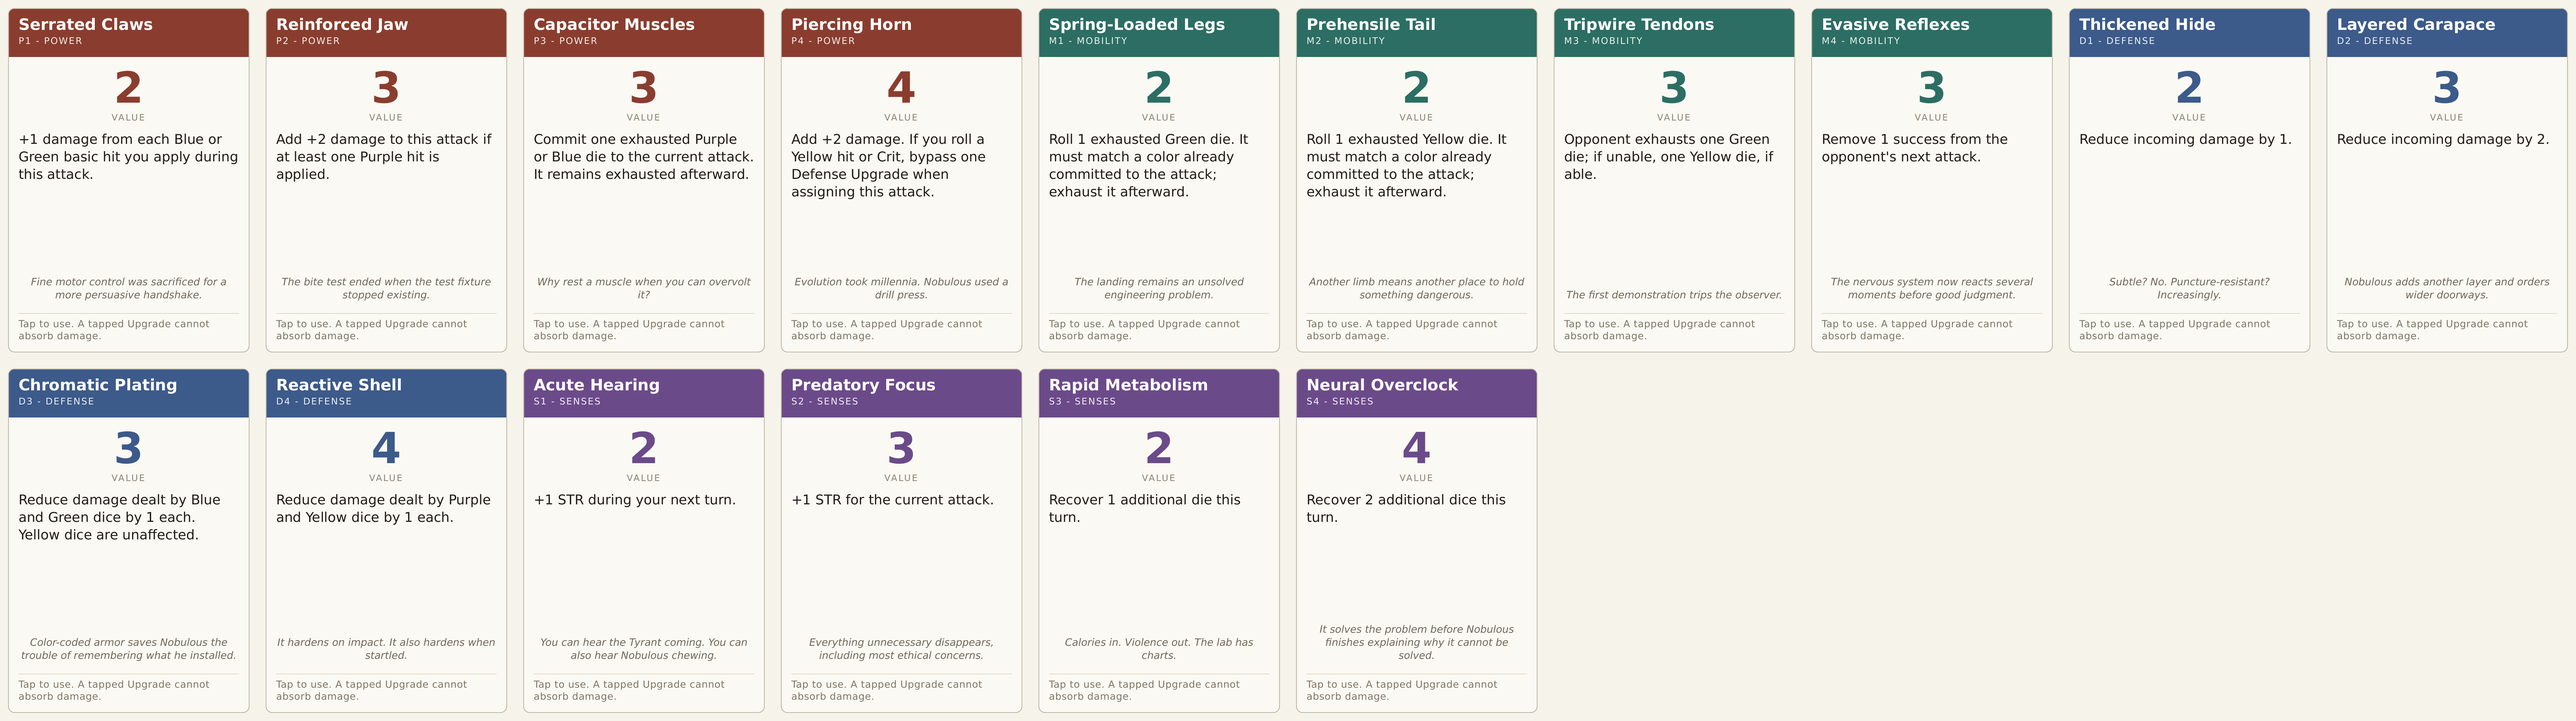
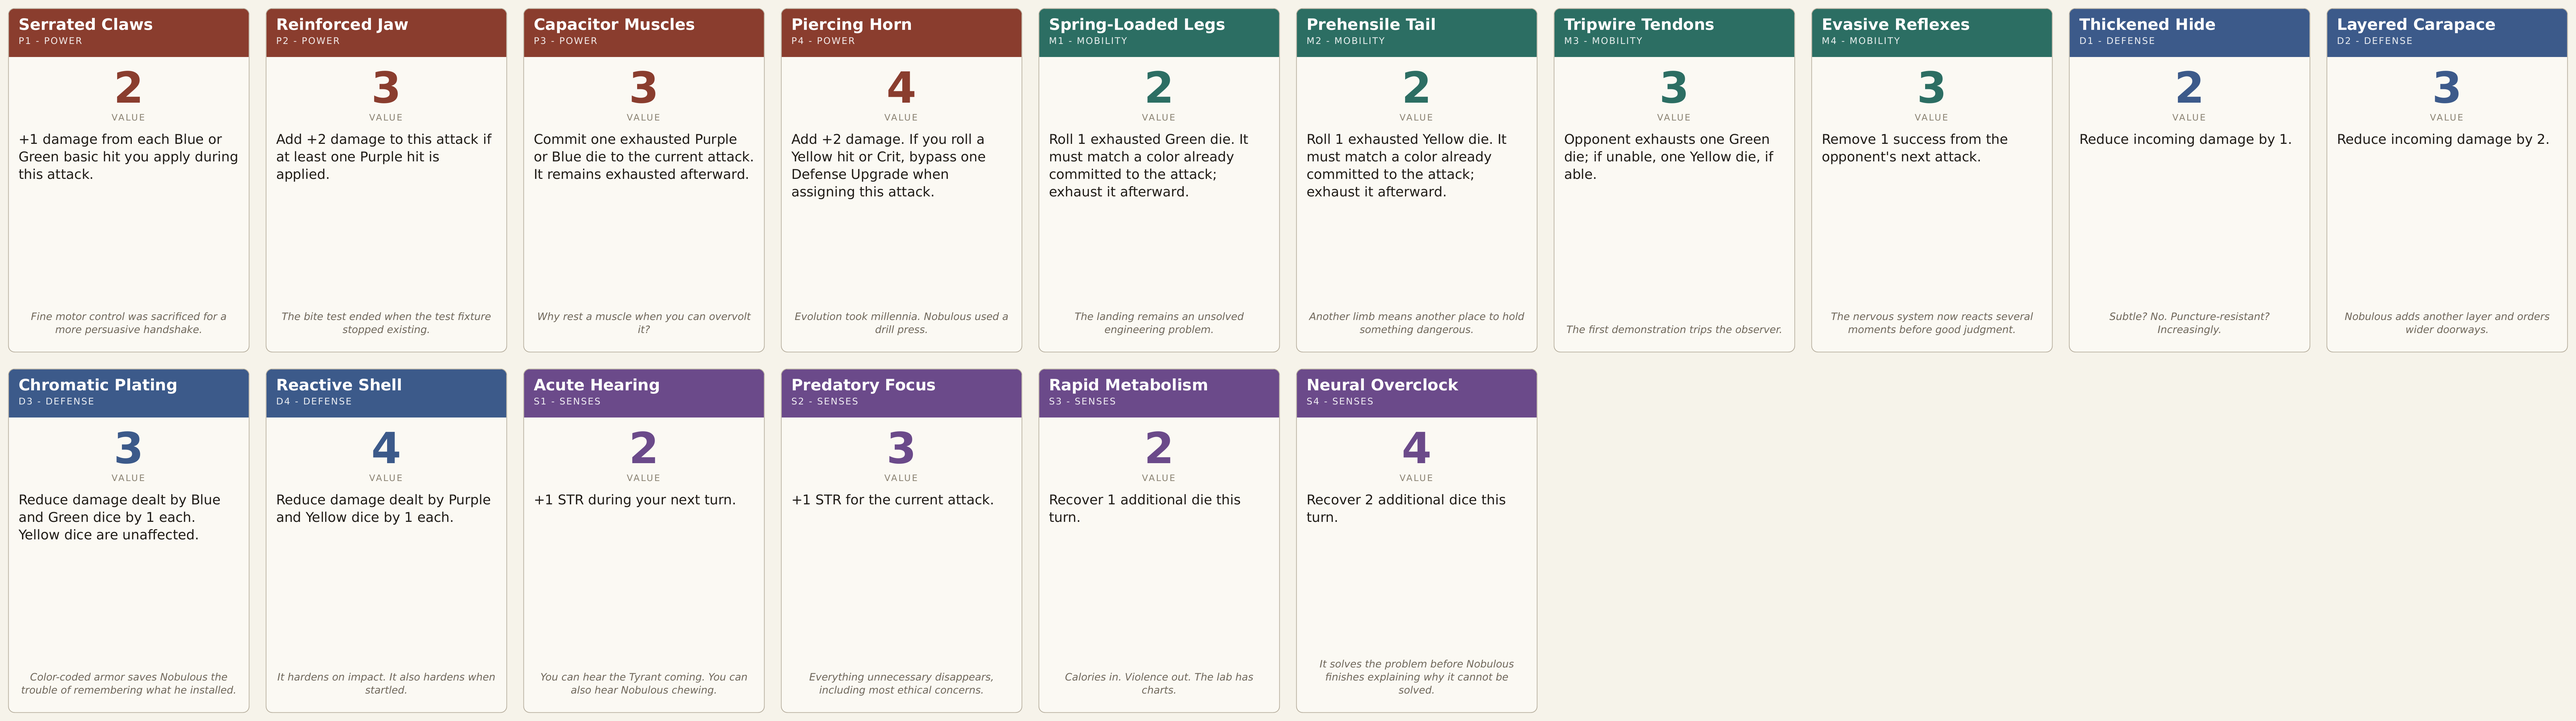
BAT: the Splices stop printing a rule that does not exist
All 16 ordinary Splices carried the footer "Tap to use. A tapped
Upgrade cannot absorb damage." - a rule out of the PRINTED game, where
a Rat held its own Upgrades and the battle attacked Rats. Nothing taps
in the scavenged-Tyrant design: the Prototyrant holds grafts, the
exposed one caps the round's dice and blocks an attack whether or not
its effect was used, and the word appears nowhere in rules/bat.html,
in the lab, or in simulation/bat.py. So every card told a player to do
something the rulebook does not define.

CUT, NOT REWORDED. Swapping Upgrade for Splice in it would have left
the same phantom rule on all 16 and made it read like live text. C()'s
ftr defaults to '', so the body just gets the room back; check_cards'
ink pass passes and the sheet is 36 KB lighter.

NOTHING CAUGHT IT, so a check does now, keyed to the WORD rather than
to TAP_FTR - a renamed footer satisfies "TAP_FTR not in". It asks the
three places a BAT player reads: the generator's printed strings, the
book's body, and the lab's BAT modules. \btap\b, so the flavor line
about holding the TAPE still passes; the book's BODY and not
_RULES["bat"], because _plain() leaves what is inside <style> and the
changelog comment is where this decision is written down.

Two mutations added: the footer coming back, and the phantom rule being
reworded instead of cut.

THREE STALE STRINGS LEFT, and the earlier note had their decks wrong:
Piercing Horn is a Power SPLICE, while Predatory Instinct and Crushing
[…]

diff --git a/rules/bat.html b/rules/bat.html
@@ -59,14 +59,33 @@
    prints SPLICE, the TTS deck is called Splices, and the sheet is
    still BAT_Upgrades because a stem is a filename.
 
-   FOUR PRINTED STRINGS KEPT THE WORD and are not an oversight. The
-   footer on all 16 ('a tapped Upgrade cannot absorb damage') and three
-   Tyrant Attacks use it for the card on the RATS' side that soaks a
-   hit - the printed game's rule, where a Rat held Upgrades and the
-   battle attacked Rats. Here the Prototyrant holds grafts and one
-   exposed graft defends whether or not it was used, and nothing taps.
-   They are stale RULES, so they are not renamed here; see the open
-   question in the repo.
+   FOUR PRINTED STRINGS KEPT THE WORD, and were not an oversight: the
+   footer on all 16 plus three Tyrant Attacks used it for the card on
+   the RATS' side that soaks a hit - the printed game's rule, where a
+   Rat held Upgrades and the battle attacked Rats. Here the
+   Prototyrant holds grafts and the exposed one blocks an attack
+   whether or not it was used. They are stale RULES, not stale
+   vocabulary, so renaming them was never the fix.
+
+   2026-11-23, LATER STILL: THE FOOTER IS GONE. Jon's call. 'Tap to
+   use. A tapped Upgrade cannot absorb damage.' sat on all 16 cards
+   and NOTHING IN THIS GAME TAPS - the word is absent from this book,
+   from the lab and from the simulation, so every Splice was printing
+   a rule a player cannot follow. Cut, not reworded: a 'tapped Splice'
+   would have read as live text.
+
+   THREE STALE STRINGS LEFT, and they are NOT all one deck - the note
+   above said they were, and it was wrong. Piercing Horn is a Power
+   SPLICE ('bypass one Defense Upgrade'); Predatory Instinct and
+   Crushing Blow are TYRANT ATTACKS. What they share is the referent,
+   not the deck: each names the card on the RATS' side that soaks a
+   hit, and in this design that card is a graft on the Prototyrant and
+   there is only ever one exposed. So each needs a battle decision -
+   what does Piercing Horn bypass when the wall is grafts? - and not
+   a word swap.
+
+   THE BOOK DID NOT MOVE. The footer was never quoted here, so this
+   costs no lines and the three pages are untouched.
 
    THE 15 SURVIVED THE CARD. It was the track's length and it is now
    a stated ceiling, because it is also the number the Fine-tuning

diff --git a/generator/check_app_sync.py b/generator/check_app_sync.py
@@ -3018,6 +3018,48 @@ check("BAT's ordinary cards are called Splices wherever a player looks",
       and "'BAT_Upgrades'" in _bbat
       and "key='BAT_Upgrades'" in _decks,
       "the type is half-renamed, or the sheet stem moved with it")
+
+# AND NOTHING A BAT PLAYER READS MENTIONS TAPPING, because nothing in
+# this design taps. Until 2026-11-23 all 16 Splices printed 'Tap to
+# use. A tapped Upgrade cannot absorb damage.' - a rule carried over
+# from the PRINTED game, where a Rat held its own Upgrades and the
+# battle attacked Rats. Here the Prototyrant holds grafts and the
+# exposed one blocks an attack whether or not its effect was used, so
+# the footer told every player to do something the rulebook does not
+# define. Nothing caught it: a phantom rule is spelled correctly, it
+# renders, it fits the card, and no other check reads a footer.
+#
+# THE PREDICATE IS THE WORD, not the constant. 'TAP_FTR not in' is
+# satisfied by a rename, and renaming it to 'a tapped Splice' was the
+# tempting half-fix - same phantom rule, now reading as live text. So
+# this asks the three places a BAT player actually reads: the
+# generator's printed strings, the book's body, and the lab's BAT
+# modules. \btap\b, so the Tyrant Attack flavor line about holding
+# the TAPE while it grows still passes.
+#
+# THE BOOK'S BODY, not _RULES['bat']: _plain() strips tags but leaves
+# what is INSIDE <style>, and the changelog comment up at the top of
+# bat.html is where this decision is written down - in the words
+# 'nothing taps'. Reading that would make the check fail on its own
+# explanation.
+_tap = re.compile(r"\btap(s|ped|ping)?\b", re.I)
+_bat_body = re.sub(r"<[^>]+>", " ",
+                   re.sub(r"<style.*?</style>", " ",
+                          text("rules/bat.html"), flags=re.S))
+_tap_src = chr(10).join(l.split("#")[0]
+                        for l in text("generator/build_bat.py").splitlines())
+_taps = sorted(f for f, body in
+               (("generator/build_bat.py", _tap_src),
+                ("rules/bat.html", _bat_body),
+                ("playtest/dist/bat.js", text("playtest/dist/bat.js")),
+                ("playtest/dist/bat_rules.js",
+                 text("playtest/dist/bat_rules.js")),
+                ("playtest/dist/bat_experiments.js",
+                 text("playtest/dist/bat_experiments.js")))
+               if _tap.search(body))
+check("nothing a BAT player reads mentions tapping",
+      not _taps,
+      "a phantom rule is back in: %r" % (_taps,))
 # ONE SET OF ANGLES FOR ONE DIAL. The save's rotation values and the
 # angles the script turns the Chip to were two separate tables that
 # could only agree by accident, and did not. build_mod.py owns them and

diff --git a/generator/build_bat.py b/generator/build_bat.py
@@ -5,7 +5,21 @@ from gen import render_deck, render_duplex, make_back, elements, hdr_fit, title_
 CARD_SIZE = PORTRAIT
 
 SPEC_FTR = ('Target = the two revealed Splices&rsquo; combined Value minus this number, minimum 1.')
-TAP_FTR = 'Tap to use. A tapped Upgrade cannot absorb damage.'
+# NO FOOTER ON THE 16, from 2026-11-23. Every ordinary Splice used
+# to print 'Tap to use. A tapped Upgrade cannot absorb damage.' -
+# a rule out of the PRINTED game, where a Rat held its own Upgrades
+# and the battle attacked Rats. NOTHING TAPS HERE: the Prototyrant
+# holds grafts, the exposed one caps the round's dice and blocks an
+# attack whether or not its effect was used, and 'tap' appears
+# nowhere in rules/bat.html, in the lab, or in simulation/bat.py.
+# So all 16 cards stated a rule that does not exist.
+#
+# CUT RATHER THAN REWORDED, Jon's call. Swapping 'Upgrade' for
+# 'Splice' in it would have left the same phantom rule on every
+# card and made it read like live text. C()'s ftr defaults to '',
+# which prints no footer div at all, so the body simply gets the
+# room back - check_cards.py's ink pass measures the result.
+# If tapping is ever wanted, it belongs in the rulebook first.
 
 EXPERIMENTS = [
     ("Baseline Calibration", 3, "Flip the active Lab Rat to its other side. That side remains active until another effect flips it.", "Nobulous checks your pulse, then marks the equipment fit for use."),
@@ -158,7 +172,7 @@ print("Wake-Up", render_deck('BAT_WakeUp', wake, 'BAT', back='CardBack_BAT_Encou
 # every baked art URL in the mod, this back's among them, which NRJ's
 # Modifications deck also prints.
 cards = [C(n, s, '<div class="big">%d</div><div class="biglbl">Value</div><div class="txt">%s</div>' % (v, e),
-           TAP_FTR, acc=CAT[s.split(' - ')[1]], flavor=f) for n, s, v, e, f in UPGRADES]
+           acc=CAT[s.split(' - ')[1]], flavor=f) for n, s, v, e, f in UPGRADES]
 print("Splices", render_deck('BAT_Upgrades', cards, 'BAT', back='CardBack_BAT_Upgrade'))
 
 cards = [C(n, s,
